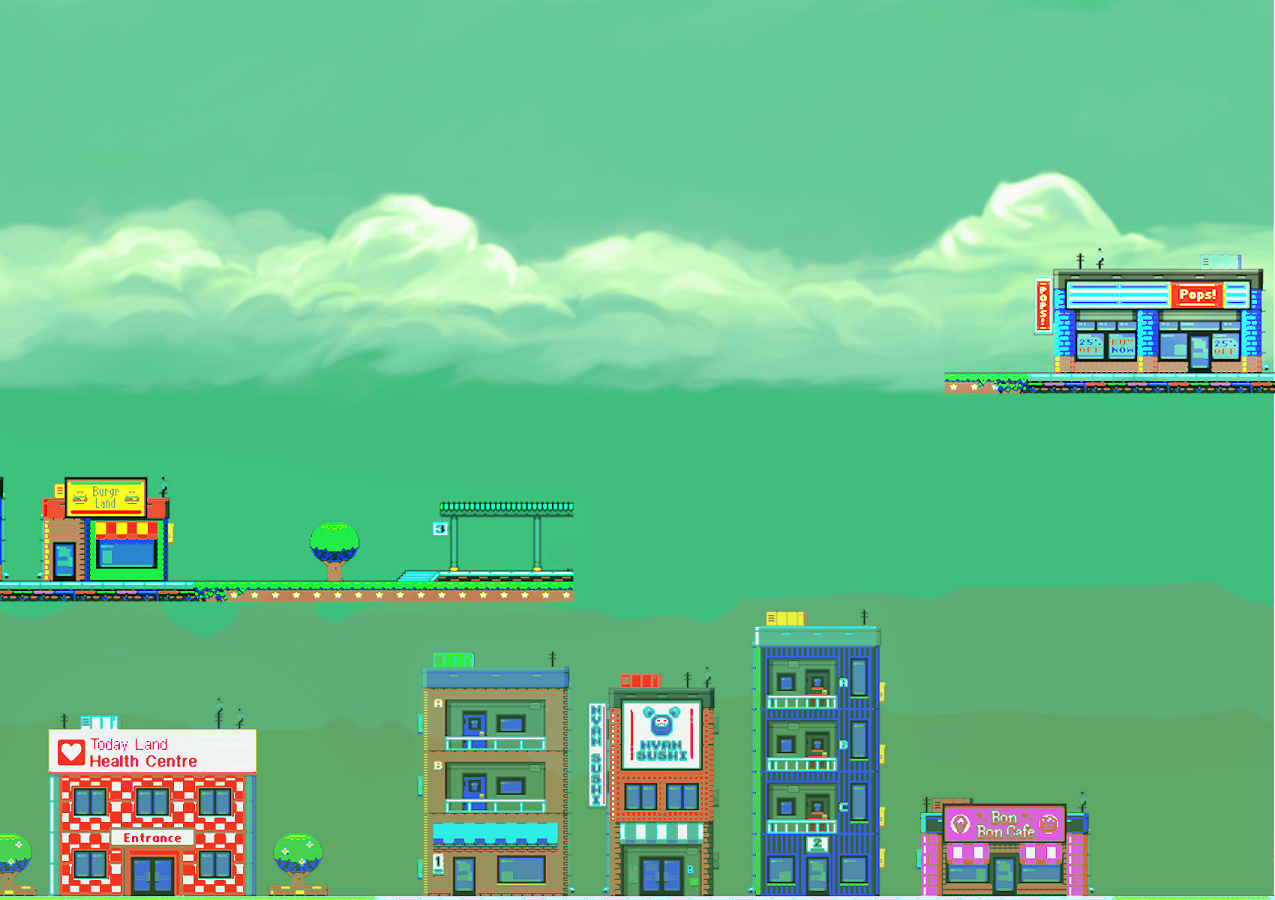
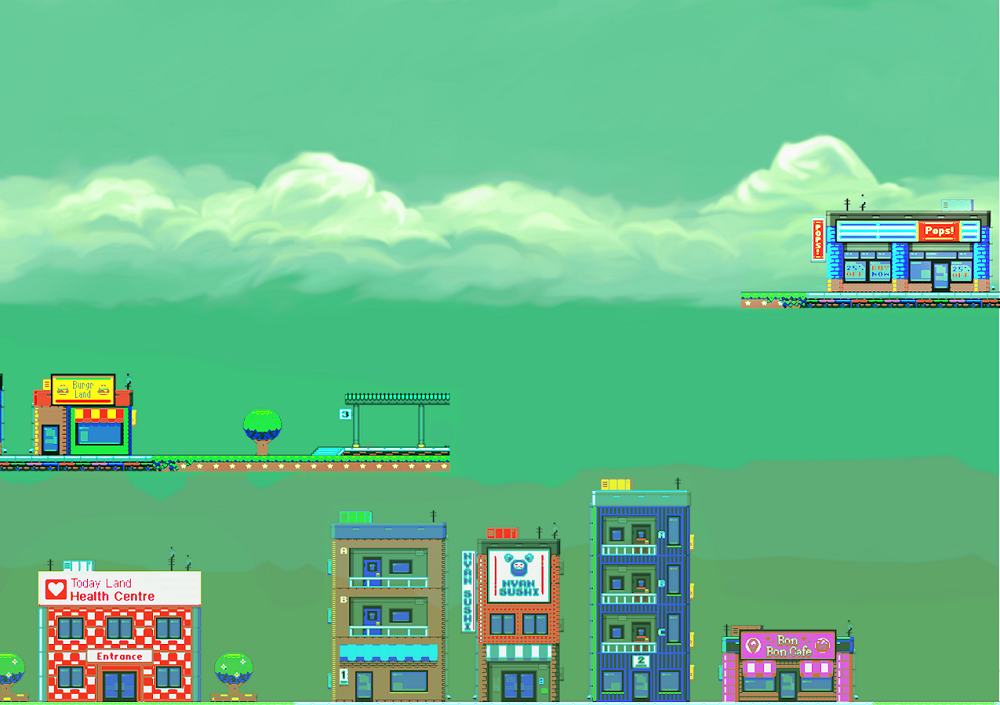
made game smaller for work laptop screen

diff --git a/game.html b/game.html
@@ -16,8 +16,8 @@
 
     const config = {
         type: Phaser.AUTO,
-        width: 1275,
-        height: 900,
+        width: 1000,
+        height: 705,
         physics: {
             default: 'arcade',
             arcade: {
@@ -70,16 +70,16 @@
 
     function create ()
     {
-        this.add.image(638, 450, 'background');
+        this.add.image(500, 353, 'background');
 
         scoreText = this.add.text(16, 16, 'Score: 0', { fontSize: '32px', fill: '#000' });
 
         levels = this.physics.add.staticGroup();
-        levels.create(17, 910, false, false, false).setSize(1272, 10);
-        levels.create(17, 595, false, false, false).setSize(573, 20);
-        levels.create(960, 390, false, false, false).setSize(330, 20);
+        levels.create(17, 715, false, false, false).setSize(1000, 10);
+        levels.create(17, 470, false, false, false).setSize(450, 10);
+        levels.create(759, 309, false, false, false).setSize(257, 10);
 
-        player = this.physics.add.sprite(65, 38, 'whi').setBounce(0.2)
+        player = this.physics.add.sprite(35, 35, 'whi').setBounce(0.2)
             .setCollideWorldBounds(true);
         player.body.setSize(45, 24);
 
@@ -109,7 +109,7 @@
 
         coins = this.physics.add.group({
             key: 'coin',
-            repeat: 17,
+            repeat: 13,
             setXY: { x: 24, y: 0, stepX: 70 }
         });
 
@@ -145,7 +145,7 @@
             fontSize: 32,
         };
 
-        restartButton = this.add.text(550, 450, 'Play Again', buttonStyle)
+        restartButton = this.add.text(380, 325, 'Play Again', buttonStyle)
             .setVisible(false)
             .setInteractive({ useHandCursor: true })
             .on('pointerdown', () => location.reload());
@@ -182,7 +182,7 @@
         if (cursors.up.isDown && player.body.touching.down)
         {
             jumpSound.play();
-            player.setVelocityY(-460);
+            player.setVelocityY(-400);
         }
     }
 

diff --git a/index.html b/index.html
@@ -41,8 +41,8 @@ body {
     justify-content: center;
     align-items: center;
     background-color: grey;
-    height: 900px;
-    width: 1275px;
+    height: 705px;
+    width: 1000px;
     font-family: 'Press Start 2P', serif;
     padding: 20px;
 }
